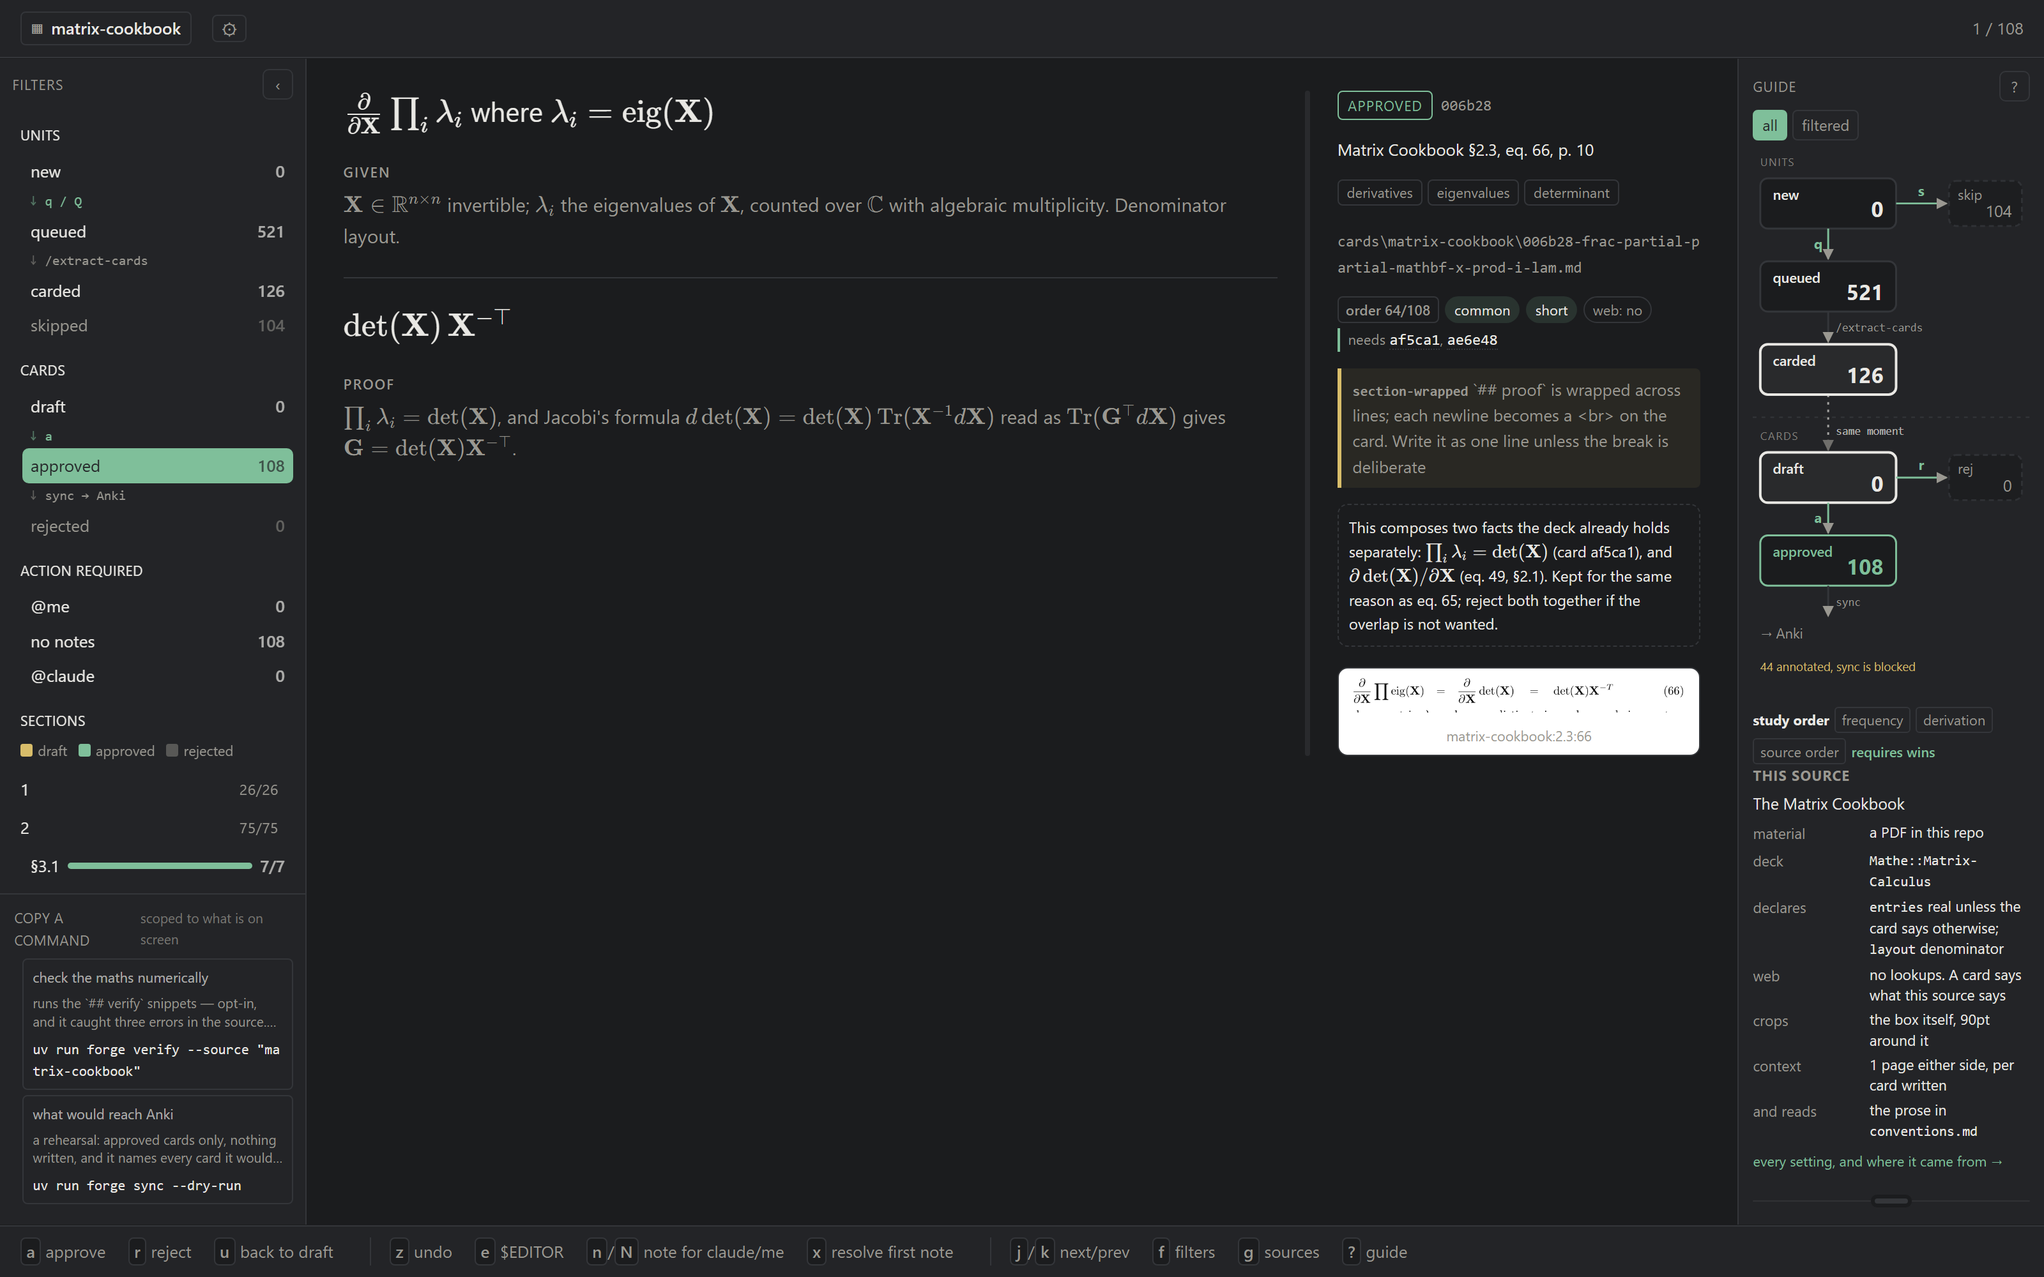
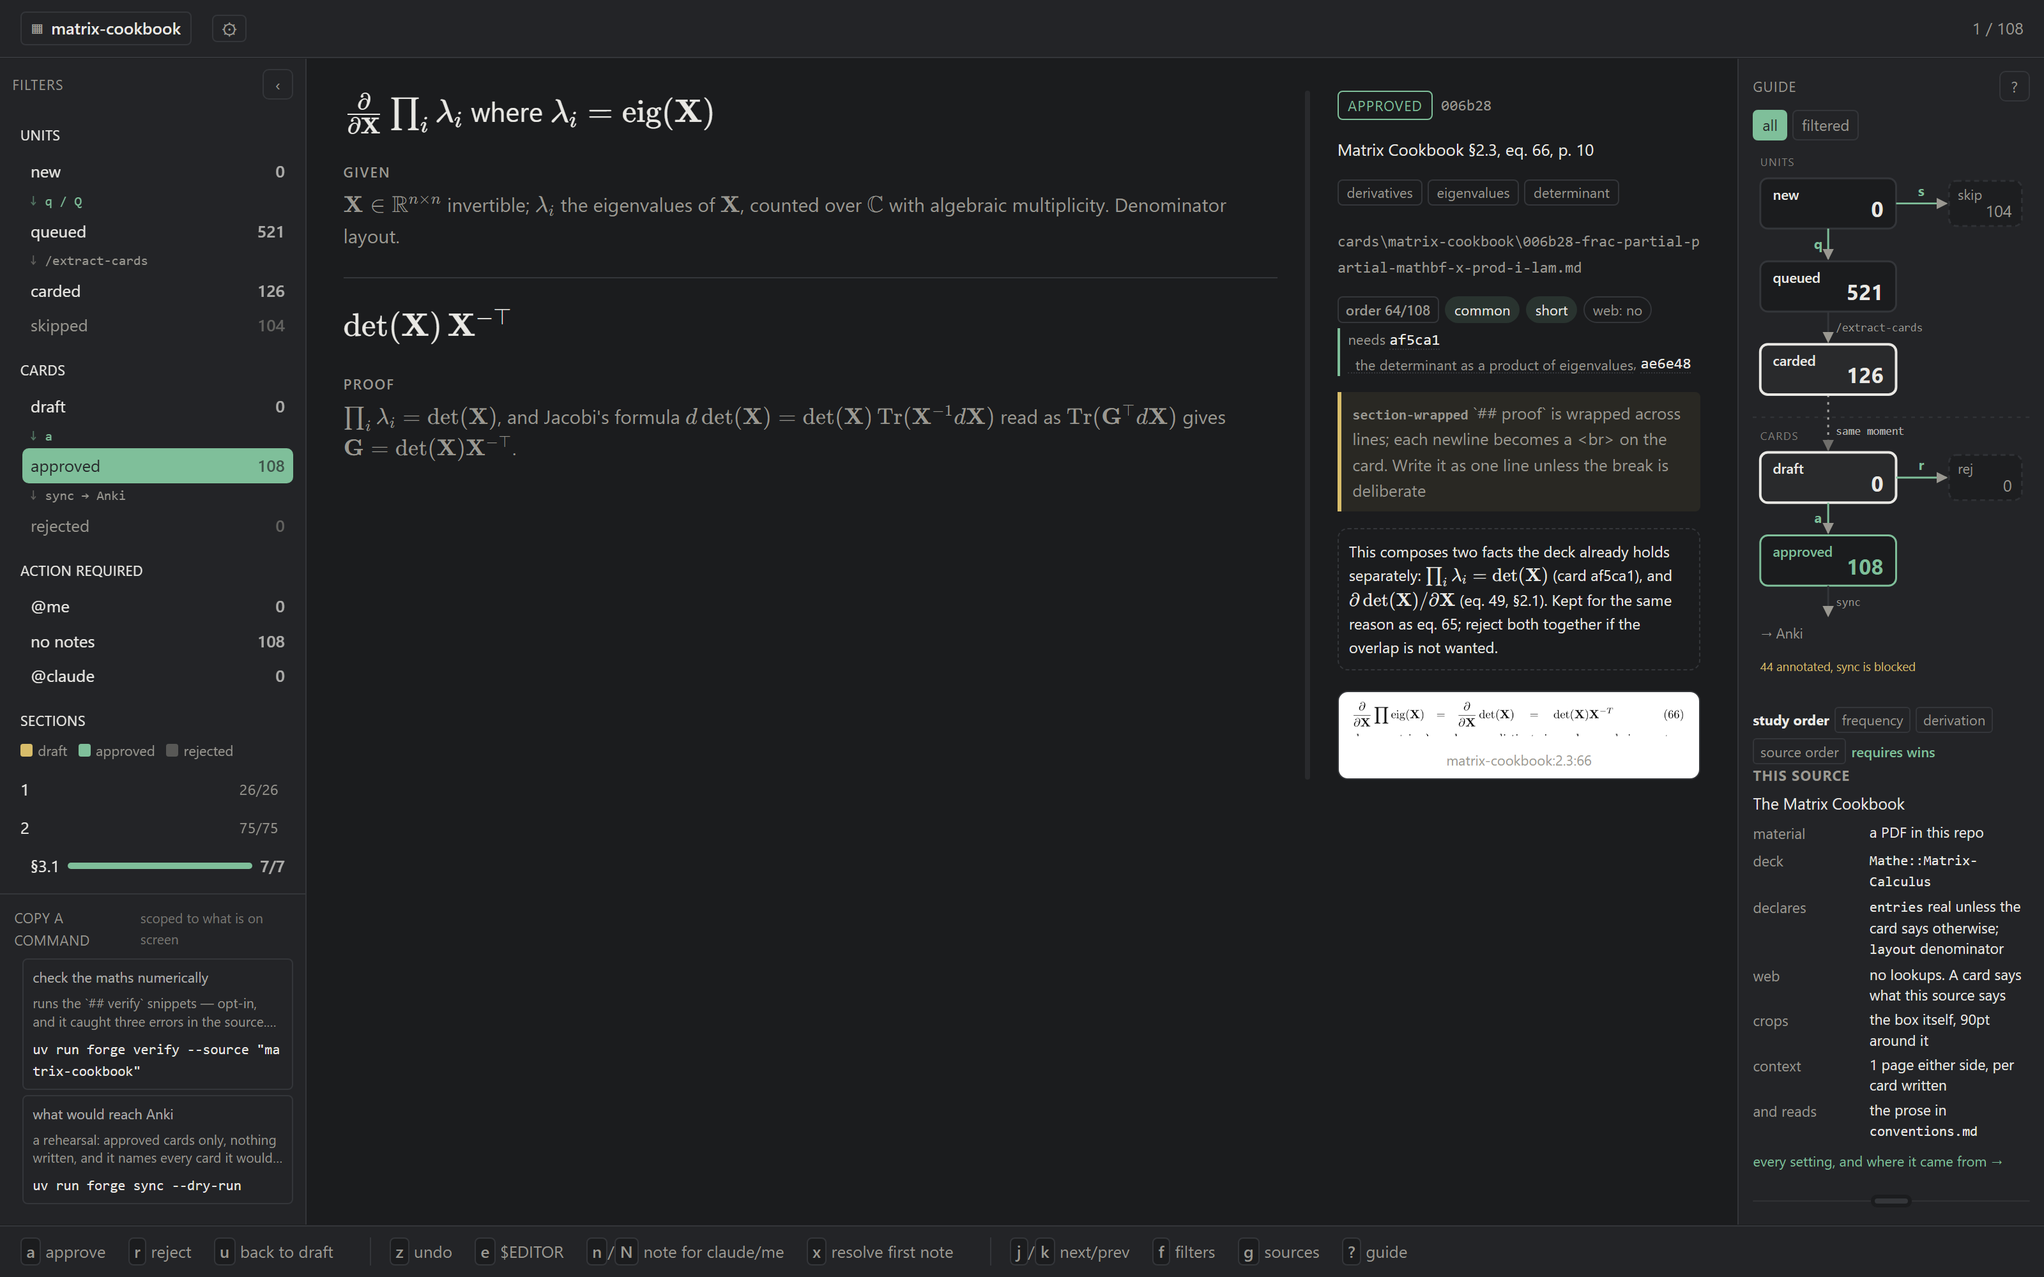
Exempt gist from the legacy digest too
The bug first, because it is the reason to check a feature against the
real deck and not only a fixture.

Every approval in this repo predates the frequency/derivation/web
exemption, so each stored hash is the legacy digest and the current one
does not match it. LEGACY_UNHASHED_FRONTMATTER did not exempt gist, so
writing a caption onto a legacy-stamped card changed the digest its
approval was pinned to. Measured on af5ca1: approved and matching
before, draft after. One /augment pass writing a caption per card would
have demoted all 108 at once, which is precisely the mass demotion
invariant 5 exists to make impossible.

The unit test could not see it. It built a fresh card, whose two
digests coincide because it carries none of the keys the exemption
widened over, so it proved nothing about the deck. There is a
regression test now that stamps a card the way the deck is stamped, and
it fails without the fix.

gist joins the legacy set, which is not a claim about what the old rule
said. That set exists to reproduce the number a card was stamped with,
and no card stamped under the old rule carries the key, so exempting it
reproduces every old digest unchanged. What it buys is the only case
that differs: a caption added later leaves the stamp matching.

Then the integration. forge new --gist writes it with the card rather
than having /extract-cards patch frontmatter afterwards, since whoever
runs that has just decided what the card is. model.stub omits the key
[…]

Changed region(s): [[0.6562, 0.279, 0.8438, 0.62]]

diff --git a/src/anki_math_forge/app/templates/review.html b/src/anki_math_forge/app/templates/review.html
@@ -85,11 +85,11 @@
         </p>
         {% if card.requires %}
         <p class="dep needs" title="introduced before this card, whatever their grading">
-          needs {% for dep in card.requires %}{% set uid = dep.uid if dep is mapping else dep %}{% if dep is mapping and dep.known %}<a class="goto" data-goto="{{ uid }}" href="{{ dep.href }}" title="go to {{ uid }}"><code>{{ uid }}</code></a>{% elif dep is mapping %}<code class="dead" title="names no card in this repo; `check` reports it">{{ uid }}</code>{% else %}<code title="restart `forge serve`: this is the pre-restart payload">{{ uid }}</code>{% endif %}{{ ", " if not loop.last }}{% endfor %}</p>
+          needs {% for dep in card.requires %}{% set uid = dep.uid if dep is mapping else dep %}{% if dep is mapping and dep.known %}<a class="goto" data-goto="{{ uid }}" href="{{ dep.href }}" title="{{ dep.gist ~ ' · ' if dep.gist }}go to {{ uid }}"><code>{{ uid }}</code>{% if dep.gist %}<span class="dep-gist">{{ dep.gist }}</span>{% endif %}</a>{% elif dep is mapping %}<code class="dead" title="names no card in this repo; `check` reports it">{{ uid }}</code>{% else %}<code title="restart `forge serve`: this is the pre-restart payload">{{ uid }}</code>{% endif %}{{ ", " if not loop.last }}{% endfor %}</p>
         {% endif %}
         {% if card.required_by %}
         <p class="dep needed" title="this card is pulled forward to sit ahead of them">
-          needed by {% for dep in card.required_by %}{% set uid = dep.uid if dep is mapping else dep %}{% if dep is mapping and dep.known %}<a class="goto" data-goto="{{ uid }}" href="{{ dep.href }}" title="go to {{ uid }}"><code>{{ uid }}</code></a>{% elif dep is mapping %}<code class="dead" title="names no card in this repo; `check` reports it">{{ uid }}</code>{% else %}<code title="restart `forge serve`: this is the pre-restart payload">{{ uid }}</code>{% endif %}{{ ", " if not loop.last }}{% endfor %}</p>
+          needed by {% for dep in card.required_by %}{% set uid = dep.uid if dep is mapping else dep %}{% if dep is mapping and dep.known %}<a class="goto" data-goto="{{ uid }}" href="{{ dep.href }}" title="{{ dep.gist ~ ' · ' if dep.gist }}go to {{ uid }}"><code>{{ uid }}</code>{% if dep.gist %}<span class="dep-gist">{{ dep.gist }}</span>{% endif %}</a>{% elif dep is mapping %}<code class="dead" title="names no card in this repo; `check` reports it">{{ uid }}</code>{% else %}<code title="restart `forge serve`: this is the pre-restart payload">{{ uid }}</code>{% endif %}{{ ", " if not loop.last }}{% endfor %}</p>
         {% endif %}
       </div>
 

diff --git a/src/anki_math_forge/app/static/app.css b/src/anki_math_forge/app/static/app.css
@@ -1938,6 +1938,22 @@ button.badge.context:hover { color: var(--ink); border-color: var(--accent); }
 }
 .meta .gist.inherited { color: var(--muted); font-style: italic; }
 
+/* The caption beside a dependency's uid. The uid is the thing you paste and
+   the thing `check` reports, so it keeps the monospace and leads; the caption
+   is what tells you whether the edge is real. Truncated rather than wrapped:
+   a `needs` line with three entries on it should stay one line. */
+.dep-gist {
+  margin-left: 0.35rem;
+  max-width: 14rem;
+  overflow: hidden;
+  text-overflow: ellipsis;
+  white-space: nowrap;
+  vertical-align: bottom;
+  display: inline-block;
+  color: var(--muted);
+}
+.goto:hover .dep-gist { color: var(--ink); }
+
 /* The context chip: every size on screen, the one in force written out. A row
    of bare numbers is five things to decode; this reads as a sentence with the
    answer in it -- `context 1 · 3 pages either side · 10 · all`. */

diff --git a/tests/test_card_gist.py b/tests/test_card_gist.py
@@ -58,6 +58,41 @@ def test_adding_the_exemption_moved_no_hash_that_existed(config: Config) -> None
     assert card.content_hash() == card.content_hash(legacy=True)
 
 
+def test_a_caption_does_not_demote_a_card_stamped_under_the_old_rule(
+    config: Config,
+) -> None:
+    """The case the fixture above cannot see, and the one the whole deck is in.
+
+    Every approval in this repo predates the `frequency`/`derivation`/`web`
+    exemption, so its stored hash is the *legacy* digest and the current one
+    does not match it. A card whose two digests coincide -- a freshly written
+    one, with none of those keys -- proves nothing about that.
+
+    Measured before this was fixed: `af5ca1`, approved and matching, went to
+    `draft` the moment it was given a caption. `/augment` writing one per card
+    would have demoted all 108 in a single pass.
+    """
+    card = model.load(
+        write(config, "ccc111", "demo:2.4:61", frequency="core", derivation="short")
+    )
+    card.frontmatter["content_hash"] = card.content_hash(legacy=True)
+    card.frontmatter["status"] = "approved"
+    card.save()
+
+    stamped = model.load(card.path)
+    assert stamped.content_hash() != stamped.frontmatter["content_hash"], (
+        "this fixture is only meaningful while the two digests differ"
+    )
+    assert stamped.hash_matches() and stamped.effective_status == "approved"
+
+    stamped.frontmatter["gist"] = "the determinant as a product of eigenvalues"
+    stamped.save()
+
+    after = model.load(card.path)
+    assert after.hash_matches(), "a caption broke a legacy-stamped approval"
+    assert after.effective_status == "approved"
+
+
 def test_it_falls_back_to_the_unit_that_produced_the_card(
     config: Config, units: Ledger
 ) -> None:
@@ -98,3 +133,57 @@ def test_the_review_view_shows_it(config: Config) -> None:
     write(config, "fff666", "demo:2.4:61", gist="the adjugate in terms of the inverse")
     body = TestClient(create_app(config)).get("/review?status=all").text
     assert "the adjugate in terms of the inverse" in body
+
+
+def test_the_stub_carries_it_rather_than_being_patched_afterwards(
+    config: Config, units: Ledger
+) -> None:
+    """`forge new` takes it, because whoever runs that has just decided what
+    the card is and every later pass reads it back off the LaTeX."""
+    import argparse
+
+    from anki_math_forge import cli
+
+    unit = next(iter(units))
+    args = argparse.Namespace(
+        unit=[unit.id],
+        front="$a$",
+        back="$b$",
+        type="identity",
+        tag=[],
+        source="",
+        gist="derivative of log det",
+        json=False,
+    )
+    assert cli.cmd_new(args, config) == cli.OK
+    written = [c for c in model.load_all(config.cards_dir) if c.gist]
+    assert [c.gist for c in written] == ["derivative of log det"]
+
+
+def test_an_unnamed_stub_carries_no_empty_key(config: Config, units: Ledger) -> None:
+    """`gist: ''` in a file reads as a considered blank rather than as a card
+    nobody has named yet, and `/augment` would have no way to tell."""
+    card = model.stub(uid="a1b2c3", front="$a$", back="$b$", source="", unit="")
+    assert "gist" not in card.frontmatter
+
+
+def test_a_dependency_link_says_what_it_is(config: Config) -> None:
+    """`needs af5ca1, ae6e48` names two cards and says nothing about which
+    two, which is the one thing you want while deciding whether the edge is
+    real."""
+    write(config, "aaa999", "demo:2.4:61", gist="the product of the eigenvalues")
+    dependent = model.load(write(config, "bbb999", "demo:2.4:61"))
+    dependent.frontmatter["requires"] = ["aaa999"]
+    dependent.save()
+
+    body = TestClient(create_app(config)).get("/review?status=all").text
+    assert "the product of the eigenvalues" in body
+    assert 'class="dep-gist"' in body
+
+
+def test_it_never_reaches_anki(config: Config) -> None:
+    """A caption is not content. `sync` builds the note's fields from the
+    sections, and a field nobody reviews has no business in the collection."""
+    from anki_math_forge import notetype
+
+    assert "gist" not in [f.lower() for f in notetype.FIELDS]

diff --git a/src/anki_math_forge/model.py b/src/anki_math_forge/model.py
@@ -142,7 +142,18 @@ UNHASHED_FRONTMATTER = frozenset({
 # This decays on its own. Any re-approval writes the current digest, and the
 # only cards it can rescue are ones that were already approved before the rule
 # changed. See `Card.hash_matches`.
-LEGACY_UNHASHED_FRONTMATTER = frozenset({"status", "content_hash", "requires", "verify"})
+# `gist` is in here too, and that is not a claim about what the old rule said.
+# The legacy digest's whole job is to reproduce the number a card was stamped
+# with, and no card stamped under the old rule carries a `gist` key -- the
+# field did not exist. A key that is absent contributes nothing to either
+# digest, so exempting it reproduces every old stamp unchanged. What it does
+# buy is the case that matters: adding a caption to a card still pinned to a
+# legacy hash leaves that hash matching. Without it, `/augment` writing gists
+# demotes all 108 approvals at once, which is the mass demotion invariant 5
+# exists to make impossible. Measured on `af5ca1`, which demoted.
+LEGACY_UNHASHED_FRONTMATTER = frozenset(
+    {"status", "content_hash", "requires", "verify", "gist"}
+)
 
 STATUSES = ("draft", "approved", "rejected")
 
@@ -718,8 +729,15 @@ def stub(
     unit: str,
     card_type: str = "identity",
     tags: list[str] | None = None,
+    gist: str = "",
 ) -> Card:
-    """A minimal valid card: `check` passes on it, it is just not good yet."""
+    """A minimal valid card: `check` passes on it, it is just not good yet.
+
+    `gist` is written here rather than patched in afterwards because whoever
+    calls this has just decided what the card is, and that is the cheapest
+    moment to say so. Omitted entirely when empty, so a stub carries no
+    `gist: ''` for a later pass to mistake for a considered blank.
+    """
     return Card(
         frontmatter={
             "uid": uid,
@@ -727,6 +745,7 @@ def stub(
             "status": "draft",
             "source": source,
             "unit": unit,
+            **({"gist": gist.strip()} if gist.strip() else {}),
             "tags": tags or [],
             "verify": False,
         },

diff --git a/src/anki_math_forge/app/__init__.py b/src/anki_math_forge/app/__init__.py
@@ -346,12 +346,20 @@ def create_app(config: Config) -> FastAPI:
         # hash lookup would find nothing and say nothing.
         homes = {c.uid: c.source_name for c in everywhere}
 
+        by_uid_everywhere = {c.uid: c for c in everywhere}
+
         def link(uid: str) -> dict[str, Any]:
             known = uid in homes
             where = homes.get(uid) or name
+            target = by_uid_everywhere.get(uid)
             return {
                 "uid": uid,
                 "known": known,
+                # What the dependency *is*. A row of six-hex uids says a card
+                # needs two other cards and nothing about which two, which is
+                # the one thing you want to know while deciding whether the
+                # edge is real.
+                "gist": card_gist(target, config) if target else "",
                 # `status=all` and no annotation filter, so following a link
                 # never lands on a deck that excludes what you asked for.
                 "href": filter_url("/review", {}, source=where, status="all") + f"#{uid}",

diff --git a/src/anki_math_forge/cli.py b/src/anki_math_forge/cli.py
@@ -312,6 +312,13 @@ def build_parser() -> argparse.ArgumentParser:
     p.add_argument("--source", default=None, help="citation text (defaults to the unit's)")
     p.add_argument("--type", default="identity")
     p.add_argument("--tag", action="append", default=[])
+    p.add_argument(
+        "--gist",
+        default="",
+        help="a few words naming the card, for a list or a graph node where the "
+        "LaTeX front is unreadable. Never reaches Anki, and unhashed, so a later "
+        "pass may improve the wording without un-approving anything.",
+    )
     p.add_argument("--json", action="store_true")
     p.set_defaults(run=cmd_new)
 
@@ -1103,6 +1110,7 @@ def cmd_new(args: argparse.Namespace, config: Config) -> int:
         unit=", ".join(unit_ids),
         card_type=args.type,
         tags=list(args.tag),
+        gist=args.gist,
     )
     # Filed under the source it came from. This is filing only: `unit:` stays
     # the one place a card's source is recorded, because a directory and a

diff --git a/tests/test_cli.py b/tests/test_cli.py
@@ -447,6 +447,7 @@ def test_one_card_can_be_built_from_several_units(tmp_path: Path, config: Config
         type="identity",
         tag=[],
         source="",
+        gist="",
         json=False,
     )
     assert cli.cmd_new(args, config) == cli.OK

diff --git a/.claude/agents/card-writer.md b/.claude/agents/card-writer.md
@@ -77,17 +77,16 @@ exactly like a good one, and gets reviewed for years.
    occasionally worth its own card. See the skill, *A condition must be worth
    stating*.
 
-5. Set `gist` in the frontmatter after writing the card: a few words naming
-   it, at most about sixty characters. You have just written the card, so you
-   know what it is about better than any later pass reading it back. It is a
-   caption for a list or a graph node, where the LaTeX front is unreadable,
-   and `/augment` refines it later. Never part of the card, and it never
-   reaches Anki.
+5. Pass `--gist` to `forge new`: a few words naming the card, at most about
+   sixty characters. You have just decided what this card is, so you know
+   better than any later pass reading it back off the LaTeX. It is a caption
+   for a list, a dependency link or a graph node, `/augment` refines it, and
+   it never reaches Anki. Write one on every card.
 
-6. Set `frequency` and `derivation` in the frontmatter too (the `new` verb
-   takes none of the three). Both are optional; leave them off rather than
-   guessing. `definitional` is for facts true by definition, where "how hard
-   to derive" is the wrong question.
+6. Set `frequency` and `derivation` in the frontmatter after writing the card
+   (the `new` verb does not take those two). Both are optional; leave them off
+   rather than guessing. `definitional` is for facts true by definition, where
+   "how hard to derive" is the wrong question.
 
 ## Looking things up
 

diff --git a/.claude/commands/augment.md b/.claude/commands/augment.md
@@ -71,8 +71,11 @@ allowed, use it for what the source assumes and does not state, and say in
    - `## uses` — only where the answer alone leaves you asking *why would I
      ever need this*. One clause, the setting in plain words with its formal
      name in parentheses. Most cards should not have one.
-   - `gist` — a few words naming the card, and **refine the one that is
-     already there** rather than leaving a stub's first guess. At most about
+   - `gist` — a few words naming the card. **Write one where there is none,
+     and refine the one that is there** rather than leaving a stub's first
+     guess standing. A card written before this field existed has none, and a
+     card written from a unit that had a gist is showing the *unit's*, which
+     names the region rather than this card. At most about
      sixty characters: "the adjugate in terms of the inverse", "why the bound
      needs independence", "Lemma 2". It is a caption, so it is read wherever
      the LaTeX front is not: a list, a link from another card, a graph node.

diff --git a/.claude/commands/extract-cards.md b/.claude/commands/extract-cards.md
@@ -145,8 +145,15 @@ never a transcription. The crop is the authority for what a unit says.
    uv run forge new --unit <unit-id> \
      --front '$\frac{\partial}{\partial X}\log\det X$' \
      --back '$X^{-\top}$' \
+     --gist 'derivative of log det' \
      --tag matrix-calculus --tag derivatives
    ```
+
+   **`--gist` is a few words naming the card**, at most about sixty
+   characters. You have just decided what this card is, which is the cheapest
+   moment to say so: every later pass is reading it back off the LaTeX. It is
+   a caption for a list, a dependency link or a graph node, it never reaches
+   Anki, and `/augment` refines it. Write one on every card.
 
 5. Check the result:
 

diff --git a/CLAUDE.md b/CLAUDE.md
@@ -96,7 +96,7 @@ uv run forge check              # lint (always; blocks sync)
 uv run forge units --state queued --json
 uv run forge units --ungisted   # no one-line subject yet; `/gist` fills them
 uv run forge units --id <id> --gist 'Lemma 2'
-uv run forge new --unit <id> --front '$...$' --back '$...$'
+uv run forge new --unit <id> --front '$...$' --back '$...$' --gist 'what it is'
 uv run forge todo               # open @claude annotations
 uv run forge serve              # units triage + card review
 uv run forge sync --dry-run     # then without --dry-run

diff --git a/cards/matrix-cookbook/af5ca1-prod-i-lambda-i-where-lambda-i-text-eig.md b/cards/matrix-cookbook/af5ca1-prod-i-lambda-i-where-lambda-i-text-eig.md
@@ -5,6 +5,7 @@ status: approved
 content_hash: a387921e4a30222d
 source: "Matrix Cookbook §1.2, eq. 18, p. 6"
 unit: "matrix-cookbook:1.2:18"
+gist: the determinant as a product of eigenvalues
 frequency: core
 derivation: short
 tags: [determinant, eigenvalues]
